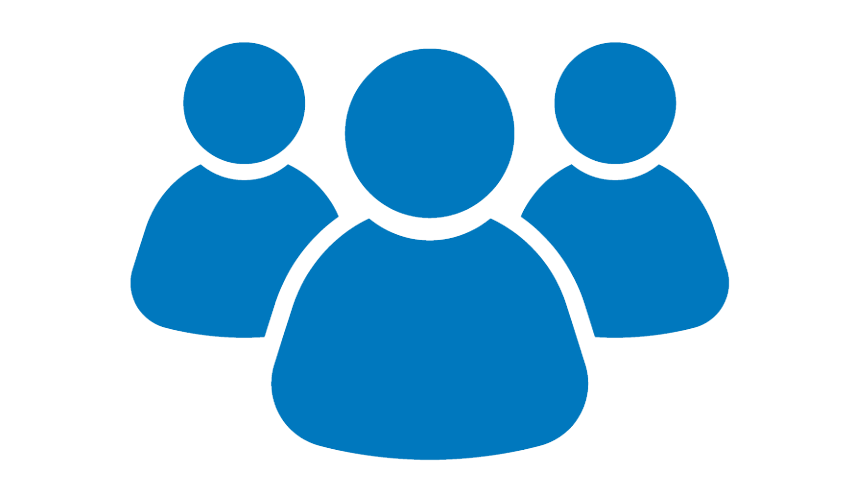
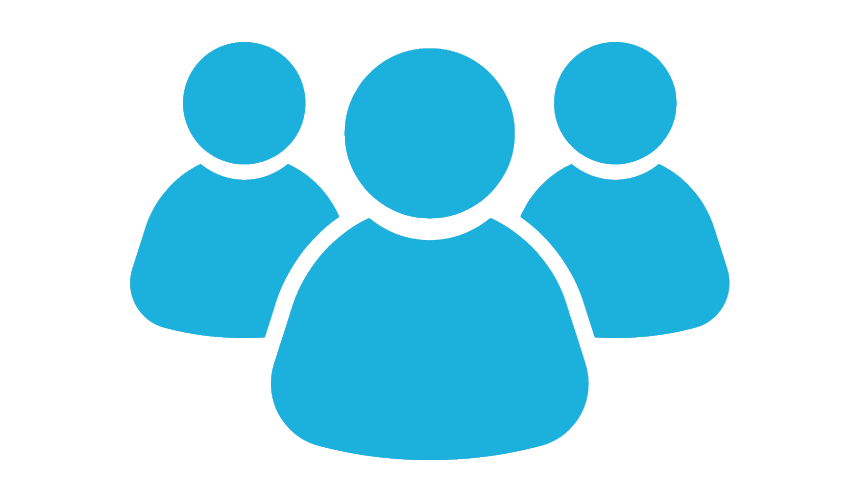
Changes Photos

diff --git a/index.html b/index.html
@@ -4,7 +4,7 @@
 <head>
     <meta charset="UTF-8">
     <meta name="viewport" content="width=device-width, initial-scale=1.0">
-    <title>Document</title>
+    <title>Get Started</title>
     <link rel="stylesheet" href="https://cdnjs.cloudflare.com/ajax/libs/font-awesome/5.12.1/css/all.min.css">
 </head>
 <style>
@@ -90,7 +90,7 @@
     }
 
     .headline-cta-section a {
-        background-color: #4386fc;
+        background-color: #1bb1dc;
         color: #fff;
         display: inline-block;
         text-align: center;
@@ -109,7 +109,7 @@
     }
 
     .section-photo-intro {
-        background: url("./image.jpg") center top no-repeat;
+        background: url("https://images.pexels.com/photos/927022/pexels-photo-927022.jpeg?auto=compress&cs=tinysrgb&dpr=2&h=750&w=1260") center top no-repeat;
         background-size: auto;
         background-size: cover;
     }
@@ -173,7 +173,7 @@
     }
 
     .org {
-        color: #4386fc;
+        color: #1bb1dc;
         height: auto;
         width: 60px;
         margin: 5px auto;
